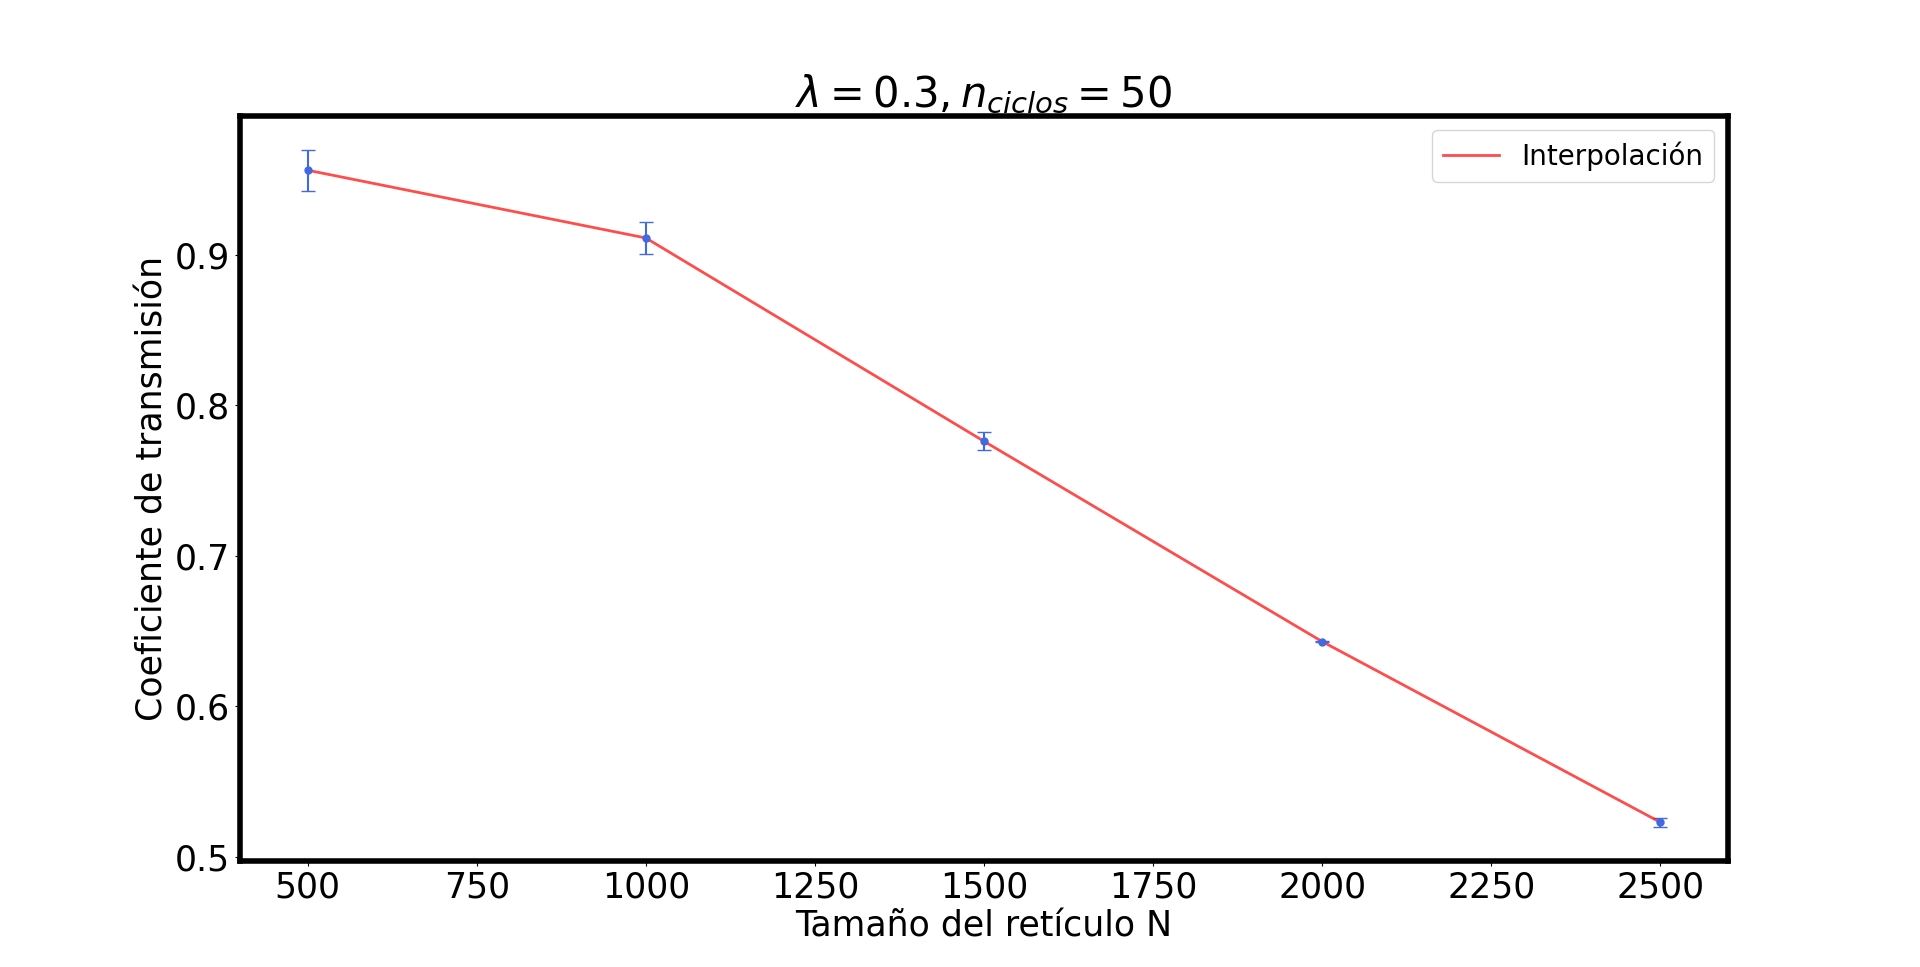
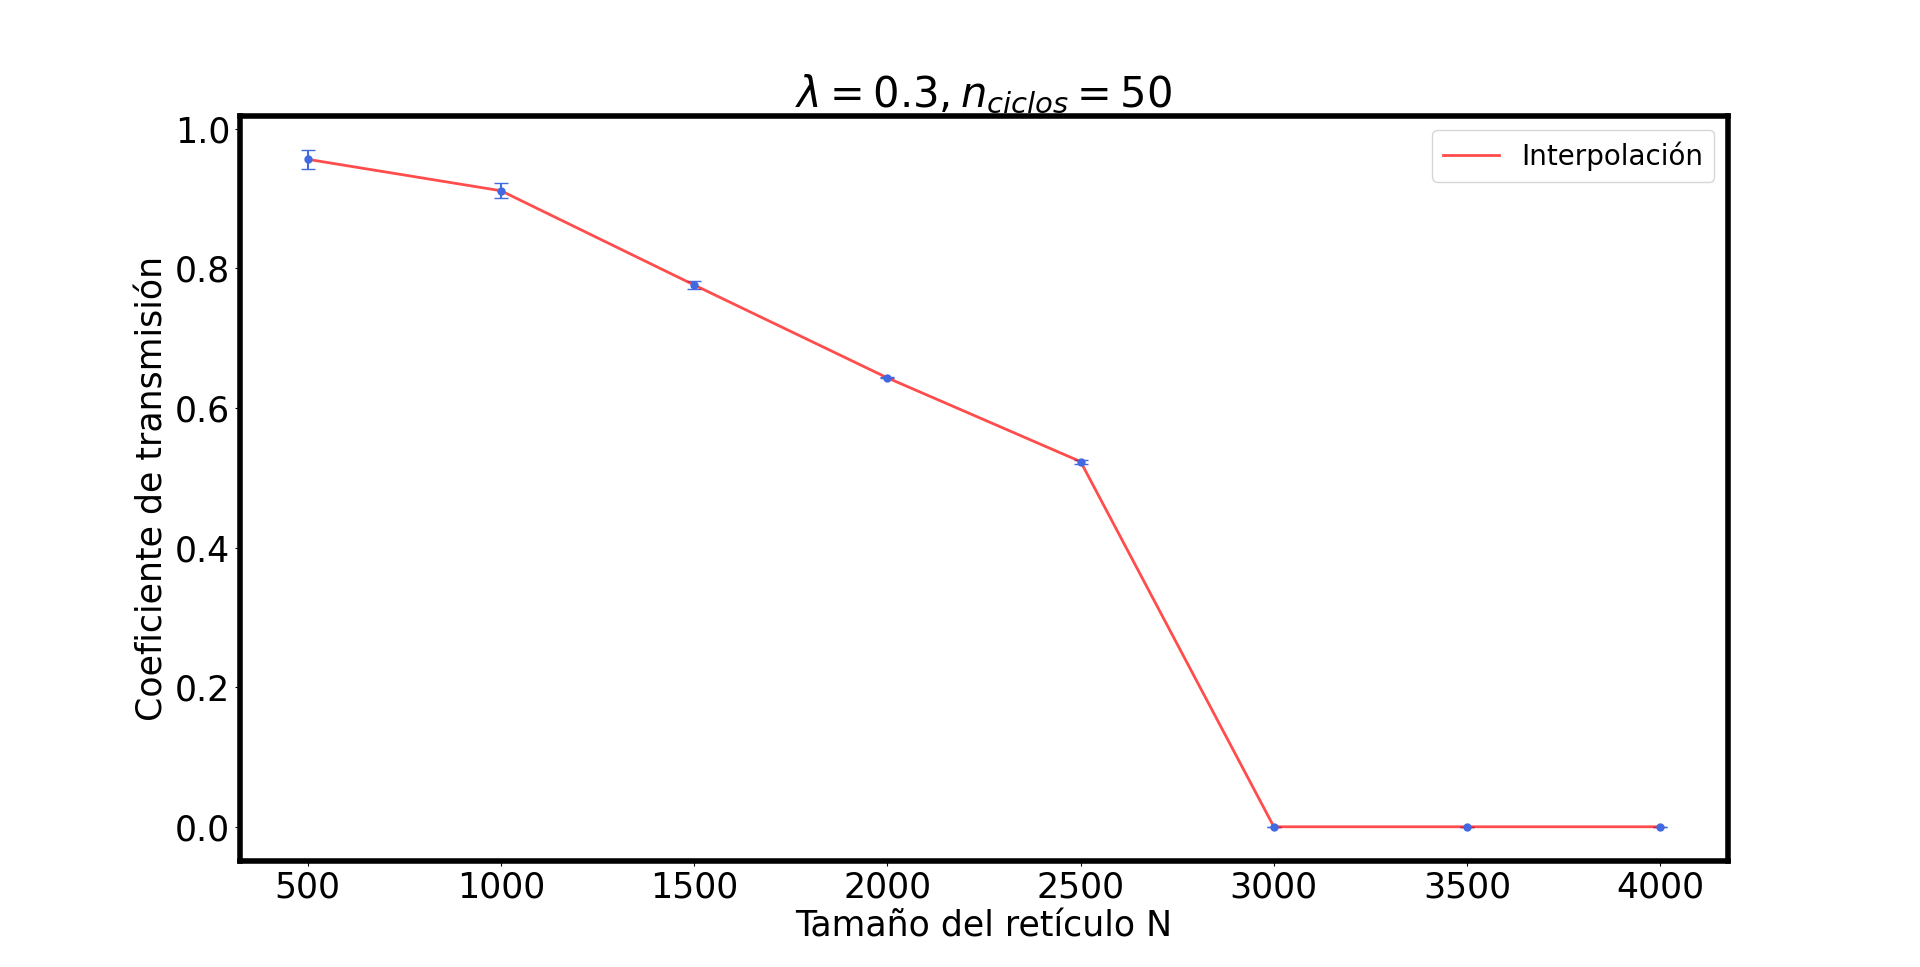
"arreglado ultimos detalles"

diff --git a/voluntario_3/código/schrodinger_t.c b/voluntario_3/código/schrodinger_t.c
@@ -5,7 +5,7 @@
 #include <time.h>
 
 #define PI 3.14159265358979323846
-#define barreras 100
+#define barreras 1
 #define width 100
 #define sep 150
 #define N (600+width+(barreras-1)*sep)
@@ -71,7 +71,7 @@ int main()
     // Inicialización del potencial
     
     
-    /*for (int j = 0; j < (2 * N / 5); j++) 
+    for (int j = 0; j < (2 * N / 5); j++) 
     {
         V[j] = 0.0;
     }
@@ -84,9 +84,9 @@ int main()
     for (int j = (3 * N / 5) + 1; j < N + 1; j++) 
     {
         V[j] = 0.0;
-    }*/
+    }
 
-    
+    /*
     for (int i = 0; i < 300; i++) 
     {
         V[i] = 0;
@@ -104,7 +104,7 @@ int main()
                 V[i] = 0.0;
             }
         }
-    }
+    }*/
 
     // Inicializa la función psi
     nacimiento(psi, ko);
@@ -191,8 +191,8 @@ int main()
         }
     }
     
-    //printf("El valor de K es: %f\n", 1.0*m_t/1000.0); //1000 iteraciones
-    //printf("El valor de la probabilidad a la derecha es: %f\n", p_dere);
+    printf("El valor de K es: %f\n", 1.0*m_t/1000.0); //1000 iteraciones
+    printf("El valor de la probabilidad a la derecha es: %f\n", p_dere);
 
     free(psi);
     free(psi2);

diff --git a/voluntario_3/código/comparador.py b/voluntario_3/código/comparador.py
@@ -4,7 +4,7 @@ import matplotlib.pyplot as plt
 
 try:
     # Lista de ficheros de datos y colores
-    file_names = ['./JOEL.dat', './O2.dat', './O3.dat']
+    file_names = ['./JOEL_2.dat', './O2_2.dat', './O3_2.dat']
     colors = ['b', 'r', 'g']
     labels = ['JOEL AMD', 'PC + O2', 'PC + O3']
 
@@ -32,7 +32,7 @@ try:
         plt.plot(x_values, y_values, f'{colors[i]}-', linewidth=2)
 
     # Define límites y etiquetas de los ejes
-    plt.xlabel(r'Número de barreras', fontsize=25)
+    plt.xlabel(r'Número de gaussianas', fontsize=25)
     plt.ylabel(r'Tiempo de ejecución (s)', fontsize=25)
 
     # Añade el título

diff --git a/voluntario_3/código/gaussianaS.c b/voluntario_3/código/gaussianaS.c
@@ -9,7 +9,7 @@
 #define width 100
 #define sep 150
 #define N (600+width+(barreras-1)*sep)
-#define M 1000  // Define el número de Gaussianas
+#define M 1000000  // Define el número de Gaussianas
 
 void nacimiento(double complex* psi, double ko);
 void radiacion(double complex* gamma, double complex* alpha, double* V, double s);

diff --git a/voluntario_3/código/puntos.py b/voluntario_3/código/puntos.py
@@ -5,7 +5,7 @@ from scipy.interpolate import interp1d
 
 try:
     # Fichero de datos
-    file_name = './N_2.dat'
+    file_name = './N.dat'
 
     # Lectura de datos
     data = pd.read_csv(file_name, delimiter=';', header=0, names=['x', 'y', 'dy'])
